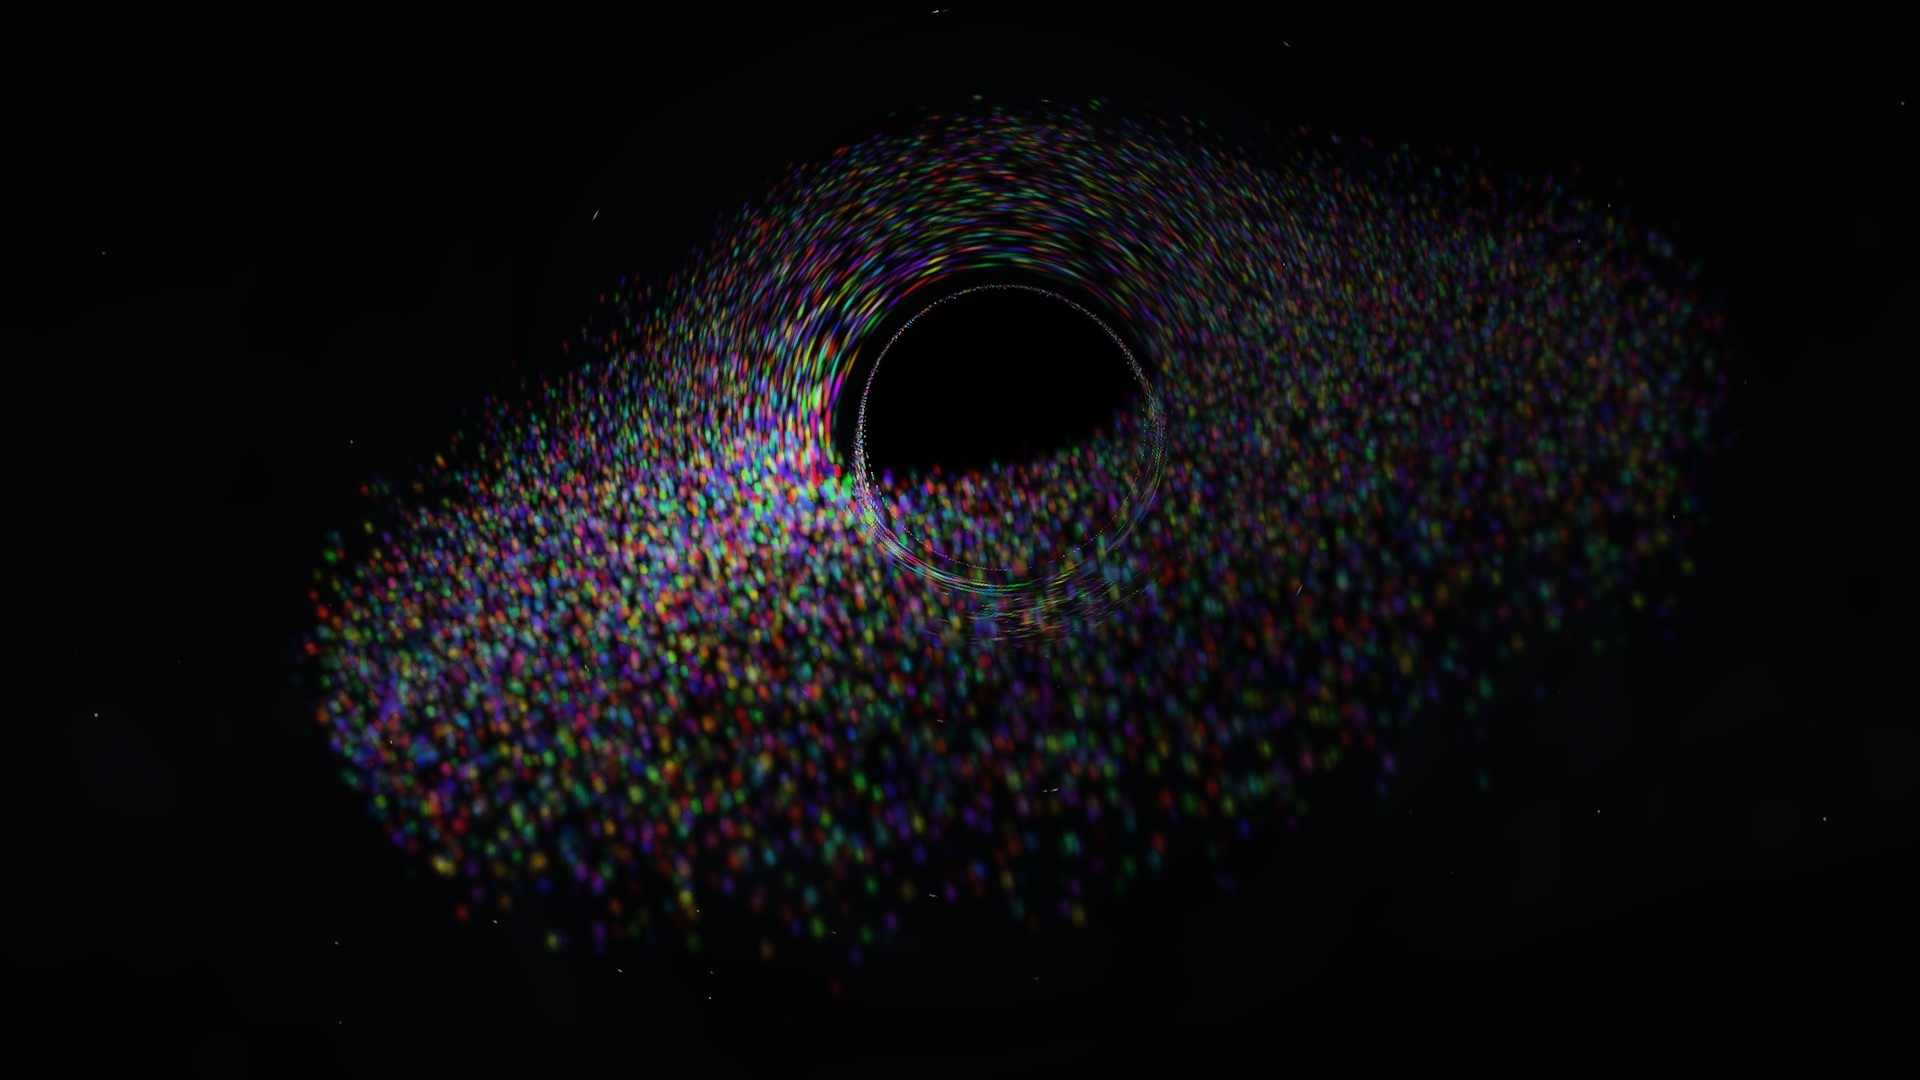
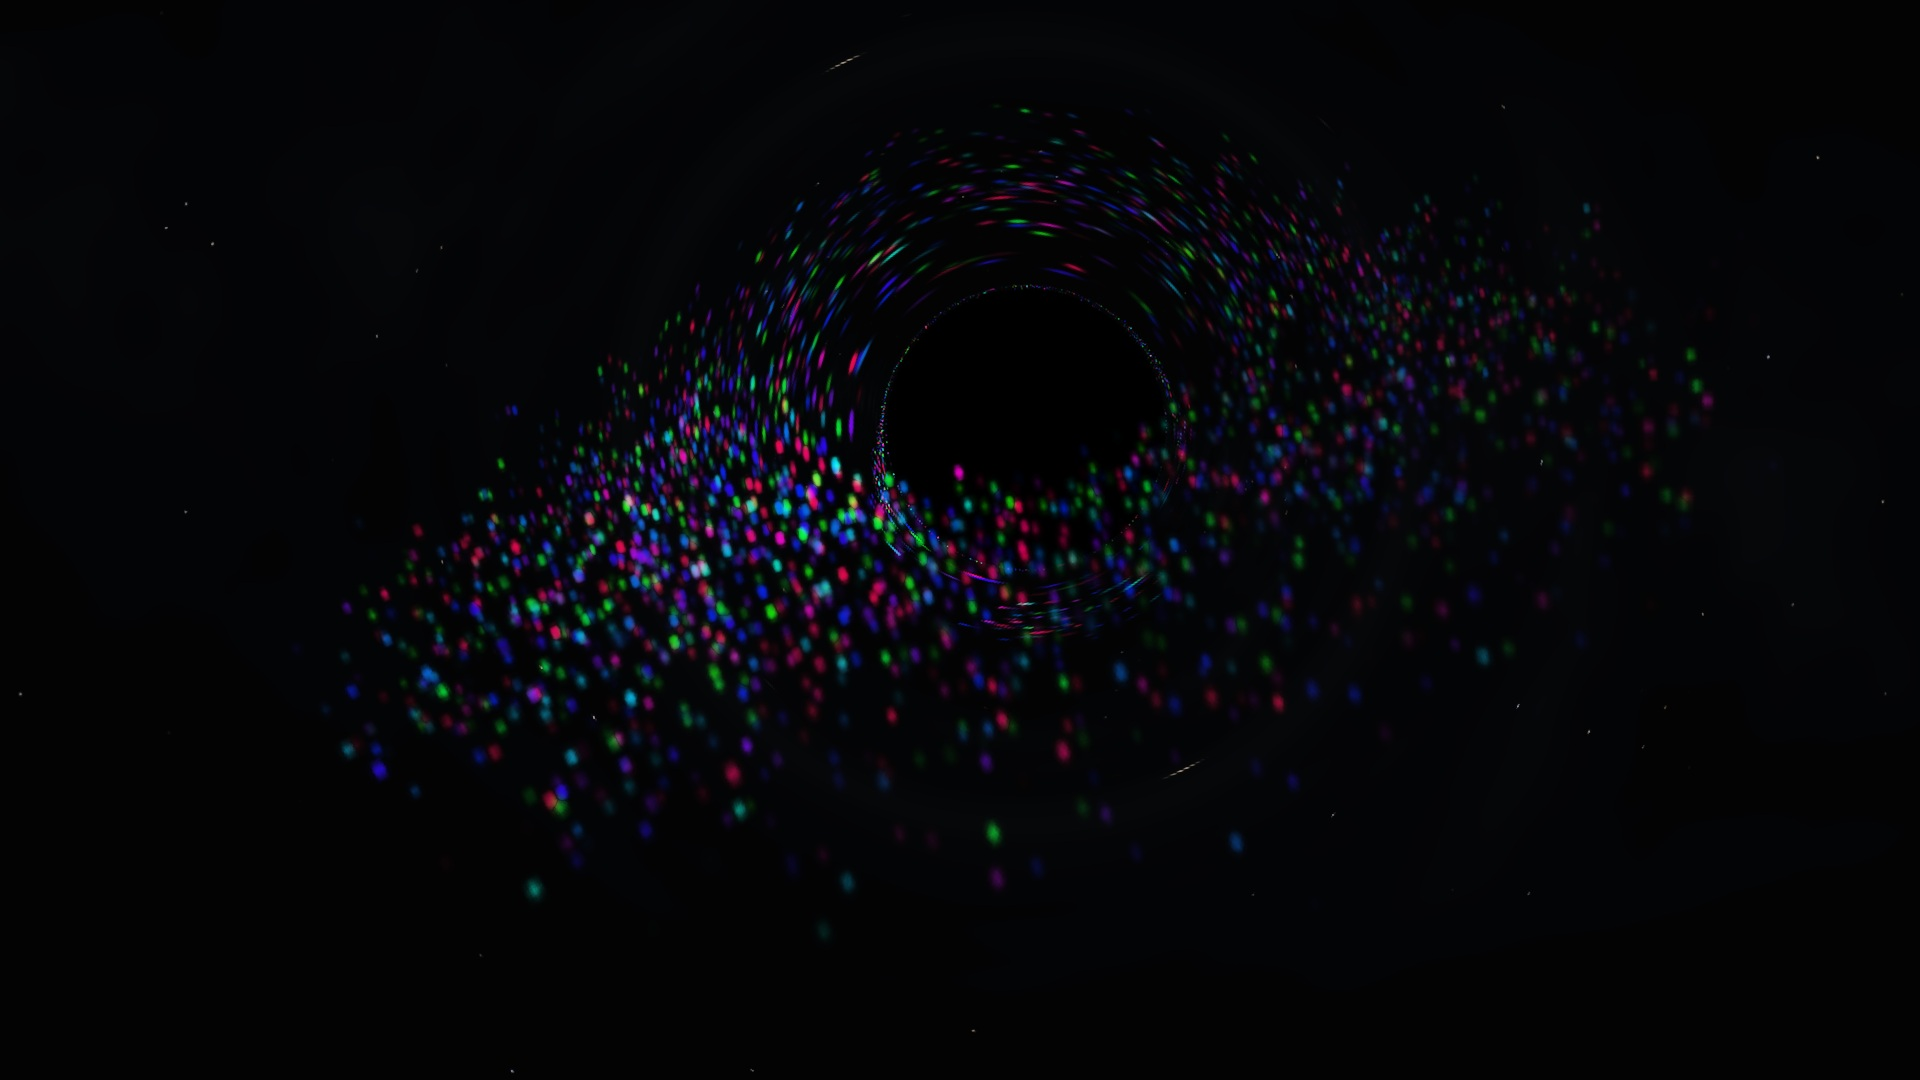
Update README credits and screenshots

diff --git a/README.md b/README.md
@@ -6,12 +6,12 @@ A black hole audio visualizer for Wallpaper Engine and the browser.
 
 ![White particles](assets/screenshots/white.jpg)
 
-![Green gradient](assets/screenshots/green-gradient.jpg)
-
-![HSV gradient](assets/screenshots/hsv.jpg)
+![HSV colors reacting to music](assets/screenshots/hsv.jpg)
 
 ## Details
 
 Built with JavaScript and WebGL2. Particle orbits and gravitational lensing use the Kerr metric, with approximate volume rendering for the glowing disk. Supports live system audio in Wallpaper Engine and local music in the browser.
 
-[Physics](docs/physics.md) · [Wallpaper Engine setup](docs/handoff.md) · [Music credit](assets/CREDITS.md)
+## Credits
+
+Demo music: [Cipher by Kevin MacLeod](assets/CREDITS.md), licensed under [CC BY 4.0](https://creativecommons.org/licenses/by/4.0/).
